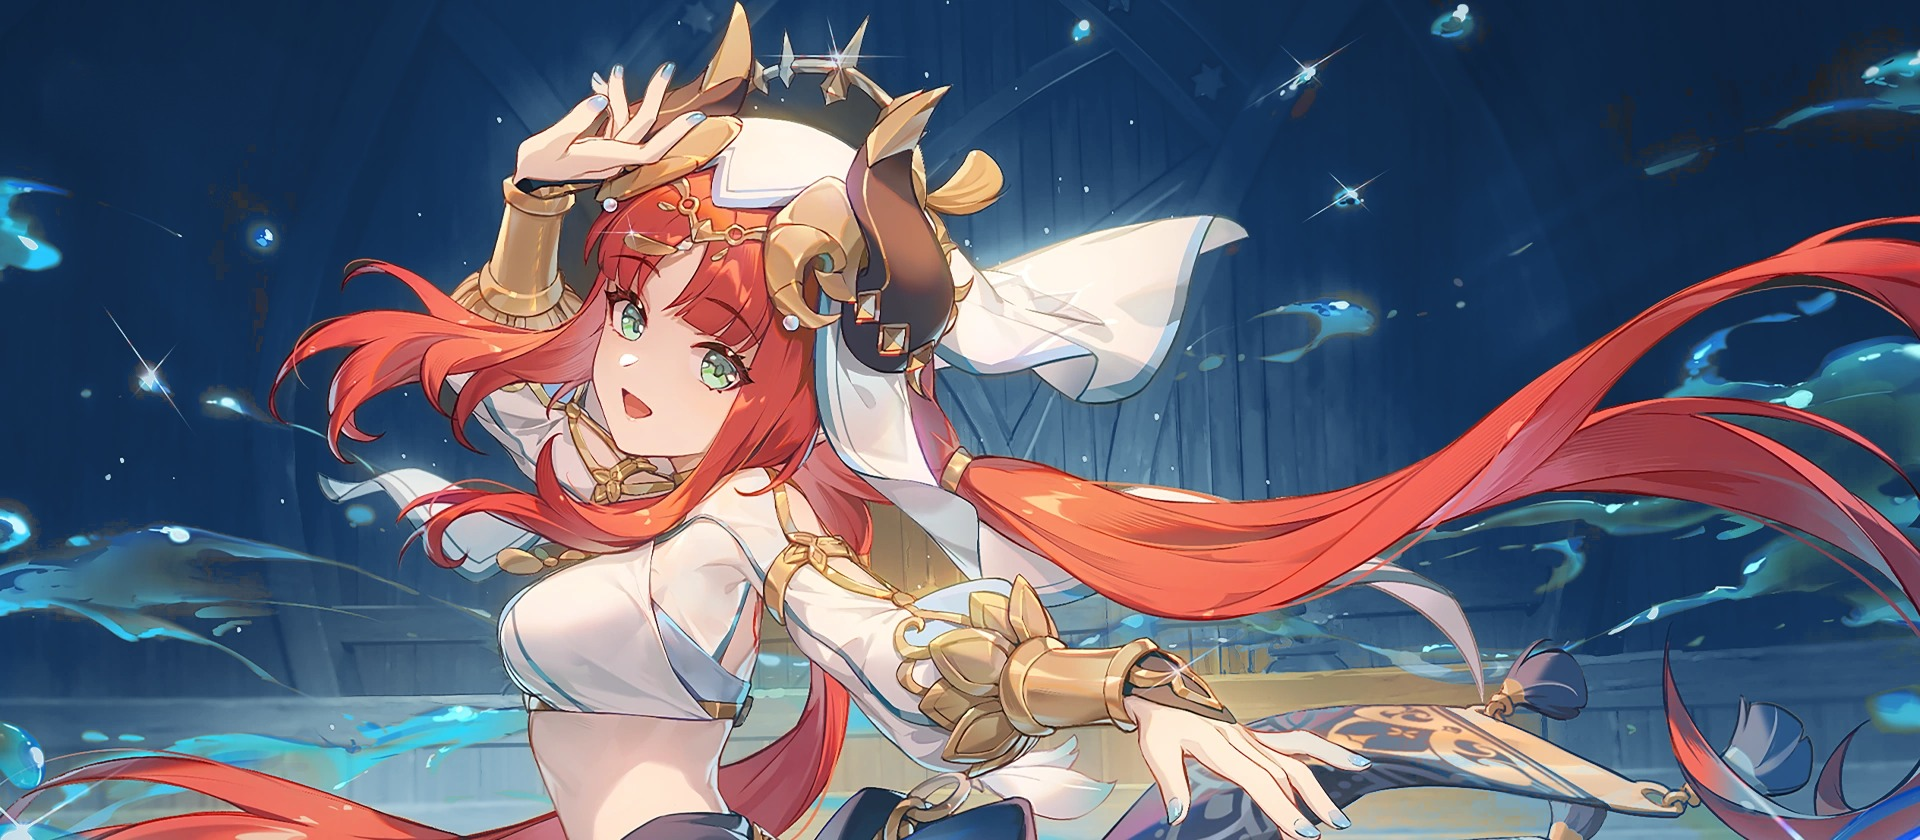
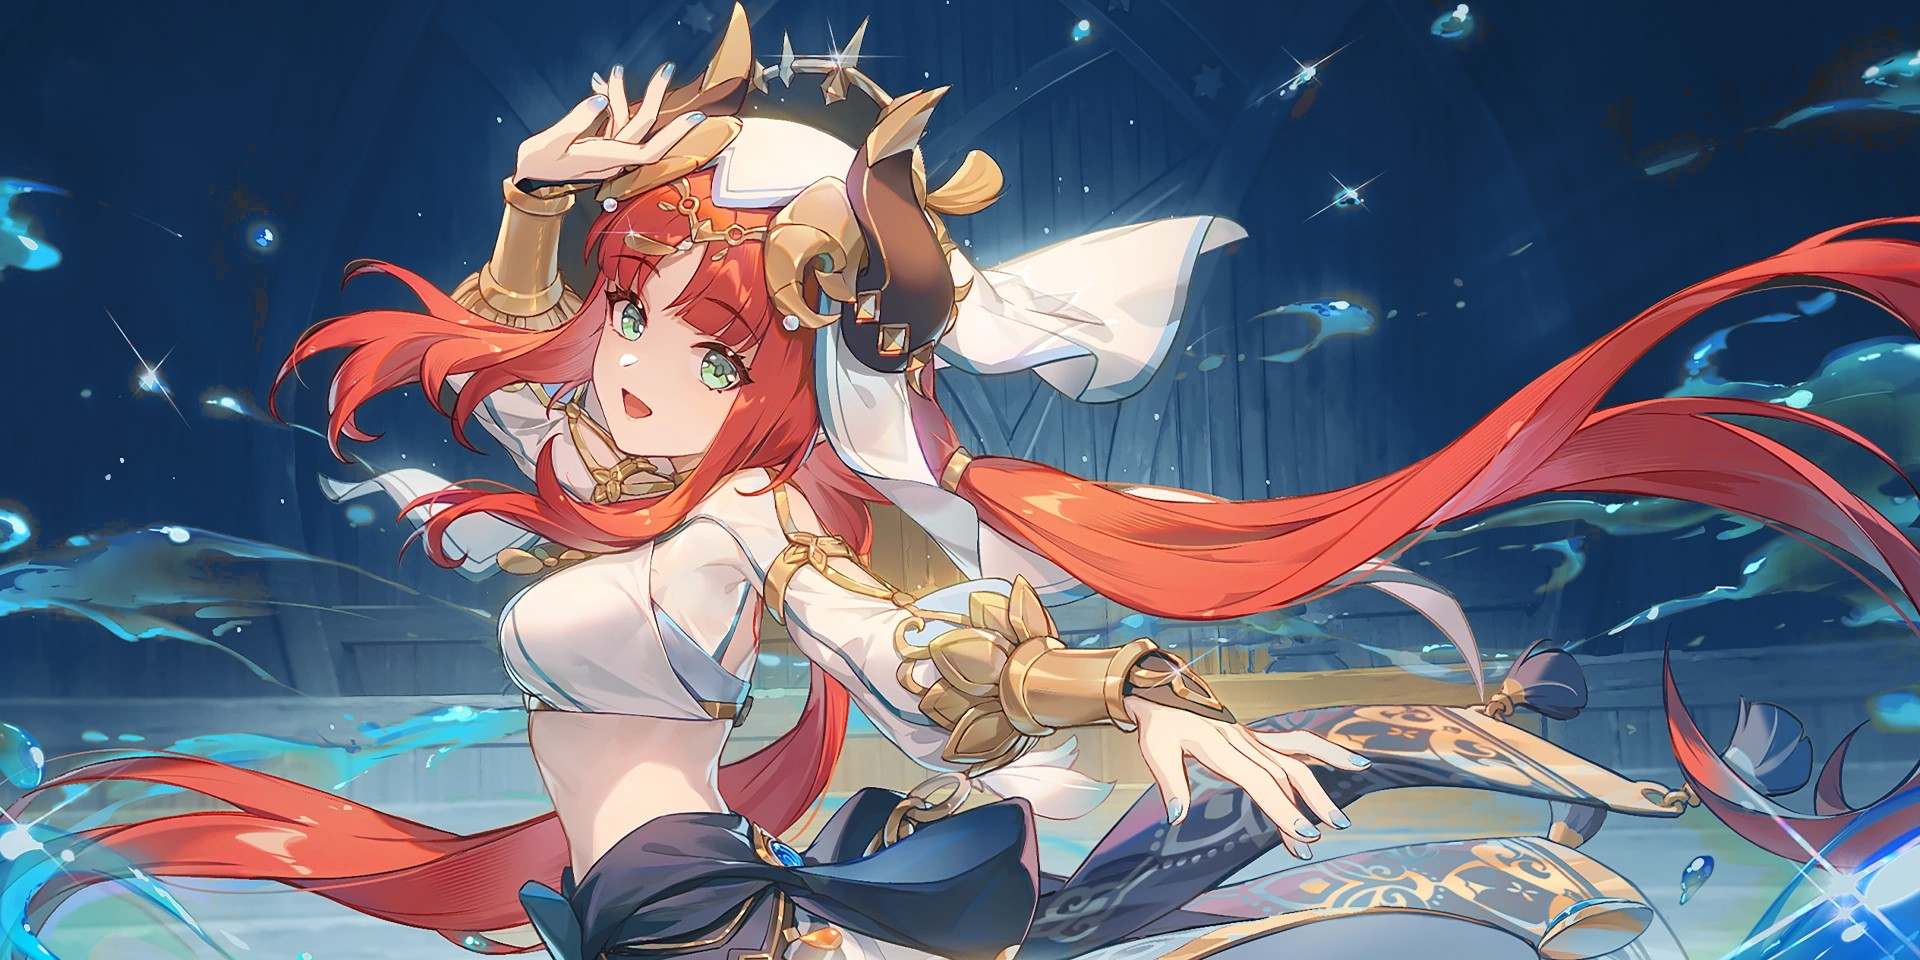
style(hero): 文章封面只占正文栏宽度，比例改成 2:1；triton 封面重裁 1920×960
Claude-Session: https://claude.ai/code/session_01LGwUPb3Wa3yPBPiZc7TEWK

diff --git a/layouts/partials/hero/nv.html b/layouts/partials/hero/nv.html
@@ -6,13 +6,13 @@
   {{- if eq .MediaType.SubType "svg" }}
     <figure class="nv-hero"><img src="{{ .RelPermalink }}" alt="{{ $alt }}" class="nozoom"></figure>
   {{- else }}
-    {{- $lg := .Fill "1600x700 Center webp q78" -}}
-    {{- $md := .Fill "1000x438 Center webp q78" -}}
-    {{- $sm := .Fill "640x280 Center webp q78" -}}
+    {{- $lg := .Fill "1600x800 Center webp q78" -}}
+    {{- $md := .Fill "1000x500 Center webp q78" -}}
+    {{- $sm := .Fill "640x320 Center webp q78" -}}
     <figure class="nv-hero">
       <img src="{{ $md.RelPermalink }}"
         srcset="{{ $sm.RelPermalink }} 640w, {{ $md.RelPermalink }} 1000w, {{ $lg.RelPermalink }} 1600w"
-        sizes="(min-width: 1120px) 1072px, calc(100vw - 36px)"
+        sizes="(min-width: 1120px) 864px, calc(100vw - 36px)"
         width="{{ $lg.Width }}" height="{{ $lg.Height }}" alt="{{ $alt }}"
         loading="eager" decoding="async" fetchpriority="high" class="nozoom">
       {{ with $.Params.featureimagecaption }}<figcaption>{{ . | markdownify }}</figcaption>{{ end }}

diff --git a/assets/css/custom.css b/assets/css/custom.css
@@ -494,9 +494,9 @@ ul.flex.flex-row.mt-8.justify-center a.bg-primary-200 { background: var(--nv-acc
 .nv-article__lead { margin: 16px 0 0; font-size: 18px; line-height: 1.75; color: var(--nv-text-2); }
 .nv-article__meta { margin-top: 18px; font-size: 14px; color: var(--nv-text-3); }
 .nv-article__header .nv-chips { margin-top: 16px; }
-.nv-hero { margin: 32px 0 0; }
+.nv-hero { margin: 32px 0 0; max-width: var(--nv-measure); }
 .nv-hero img {
-  display: block; width: 100%; height: auto; aspect-ratio: 16 / 7; object-fit: cover;
+  display: block; width: 100%; height: auto; aspect-ratio: 2 / 1; object-fit: cover;
   border-radius: 16px; border: 1px solid var(--nv-border); background: var(--nv-surface-3);
 }
 .nv-hero figcaption { margin-top: 8px; text-align: center; font-size: 13px; color: var(--nv-text-3); }
